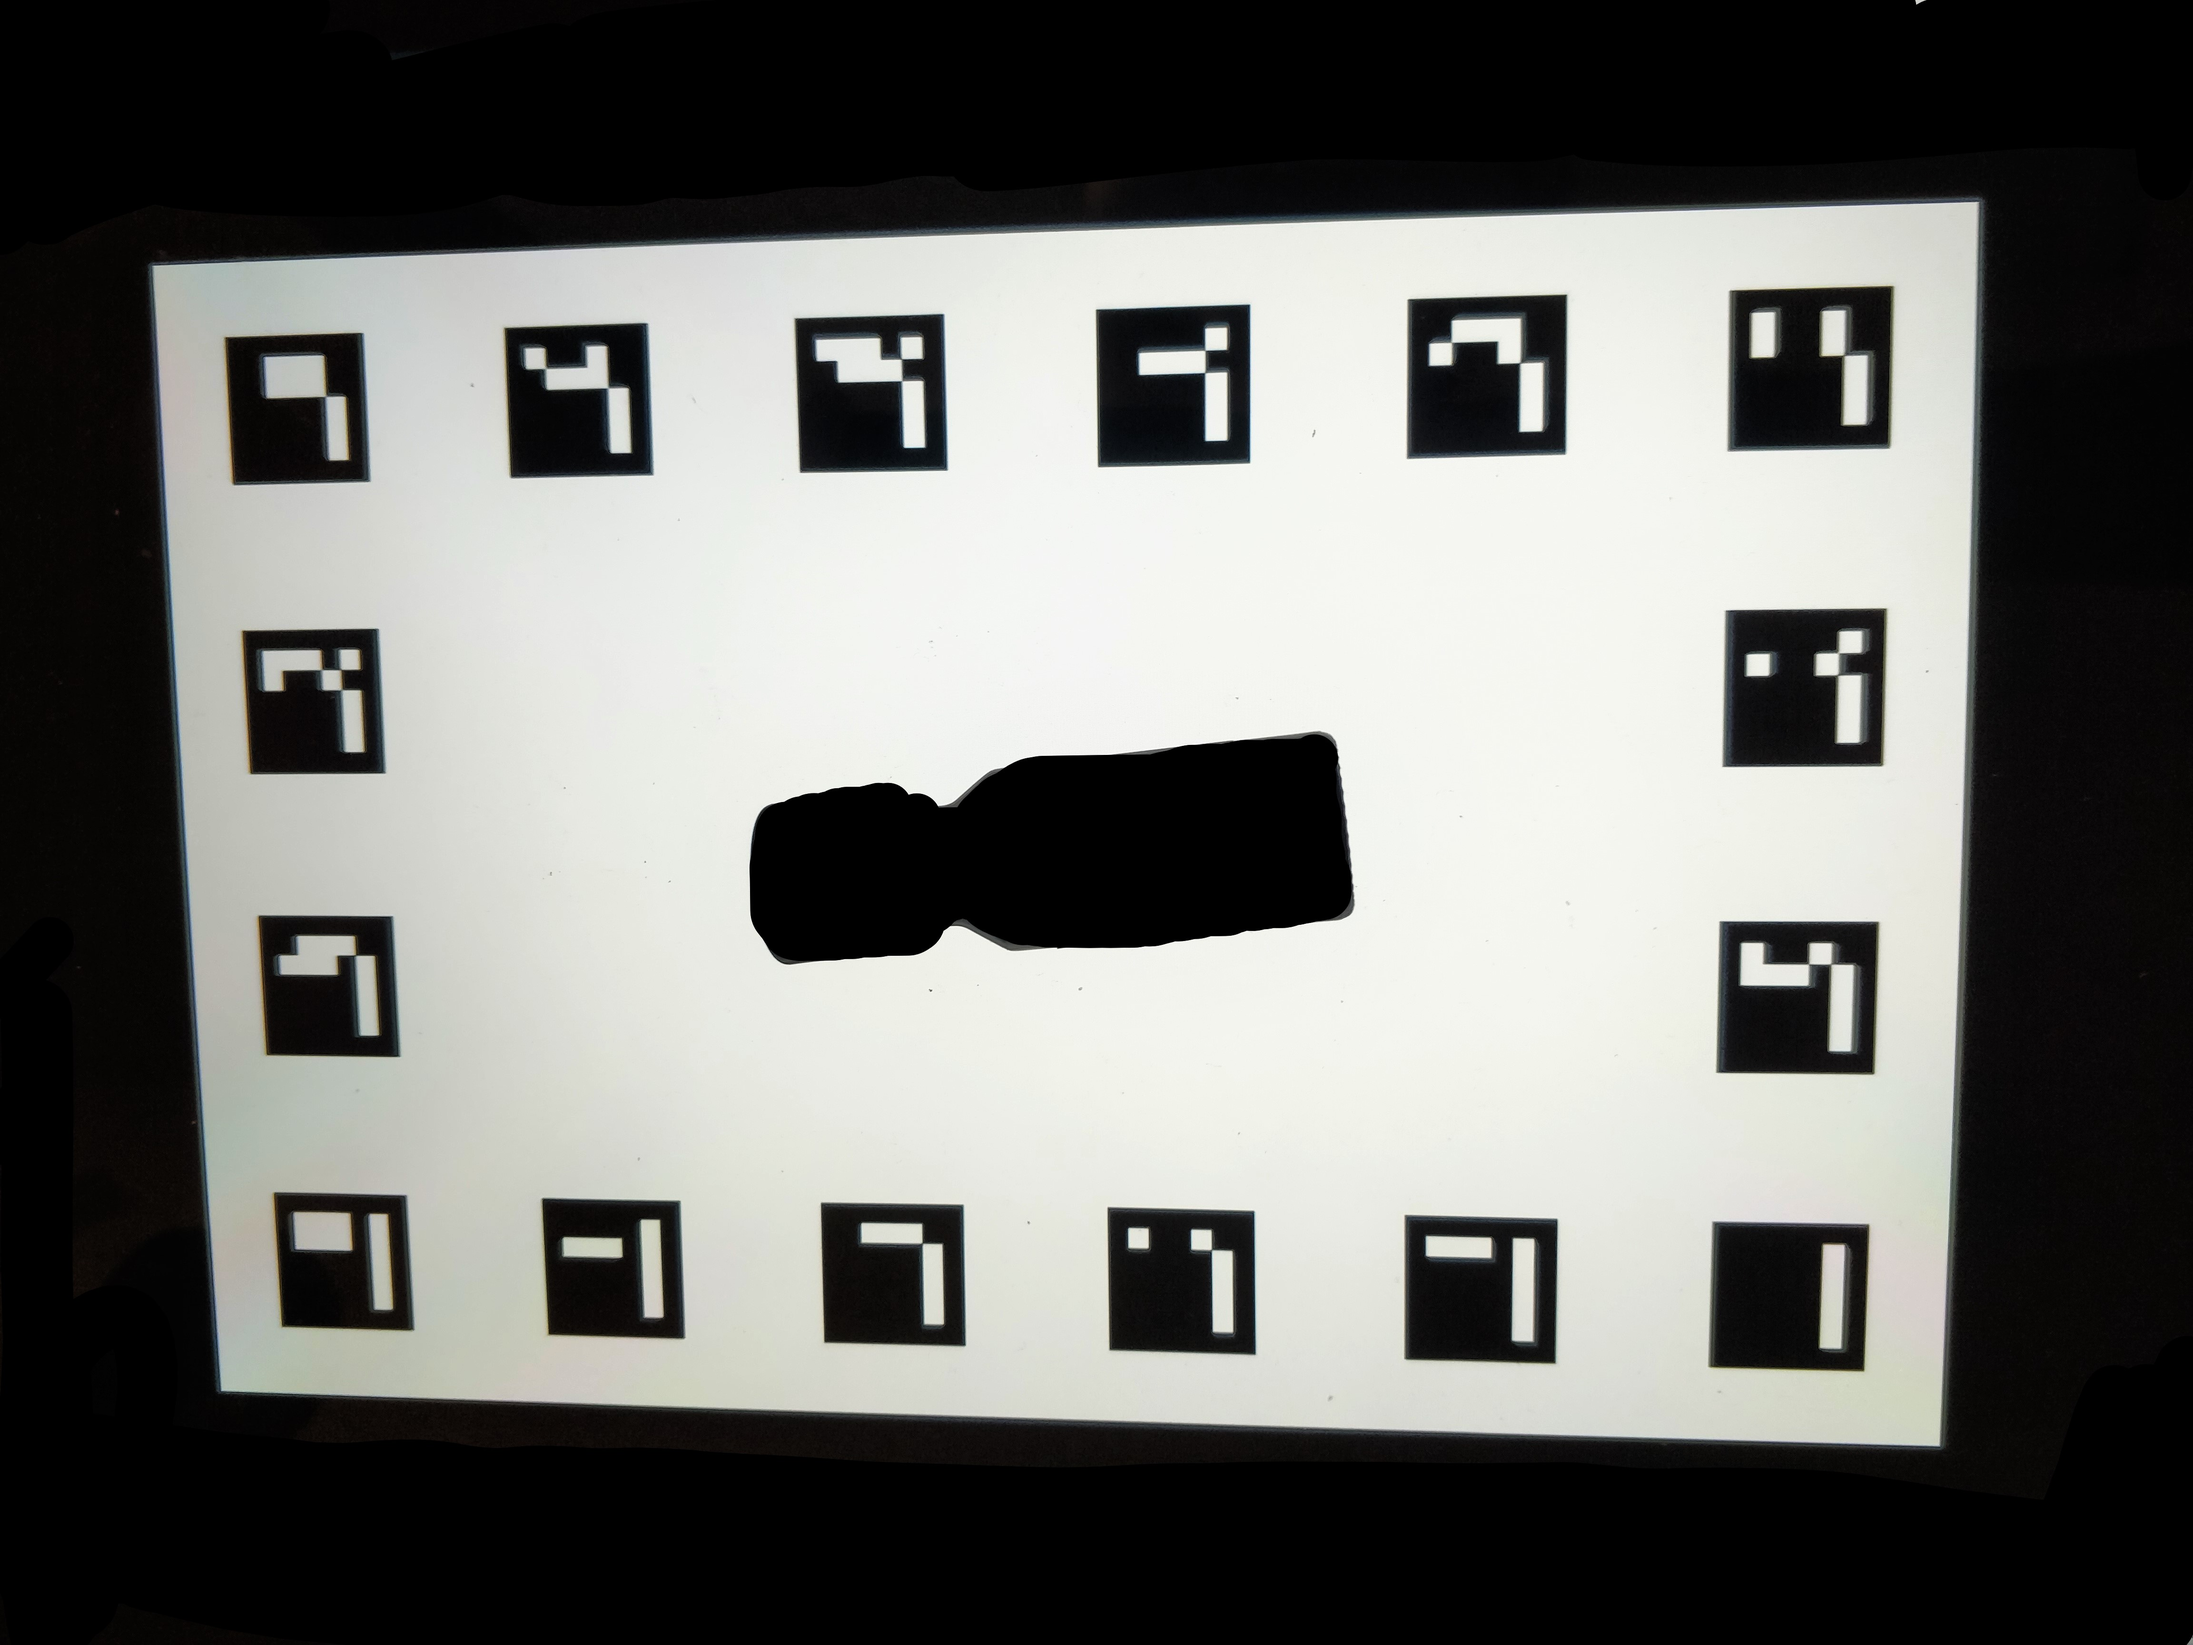
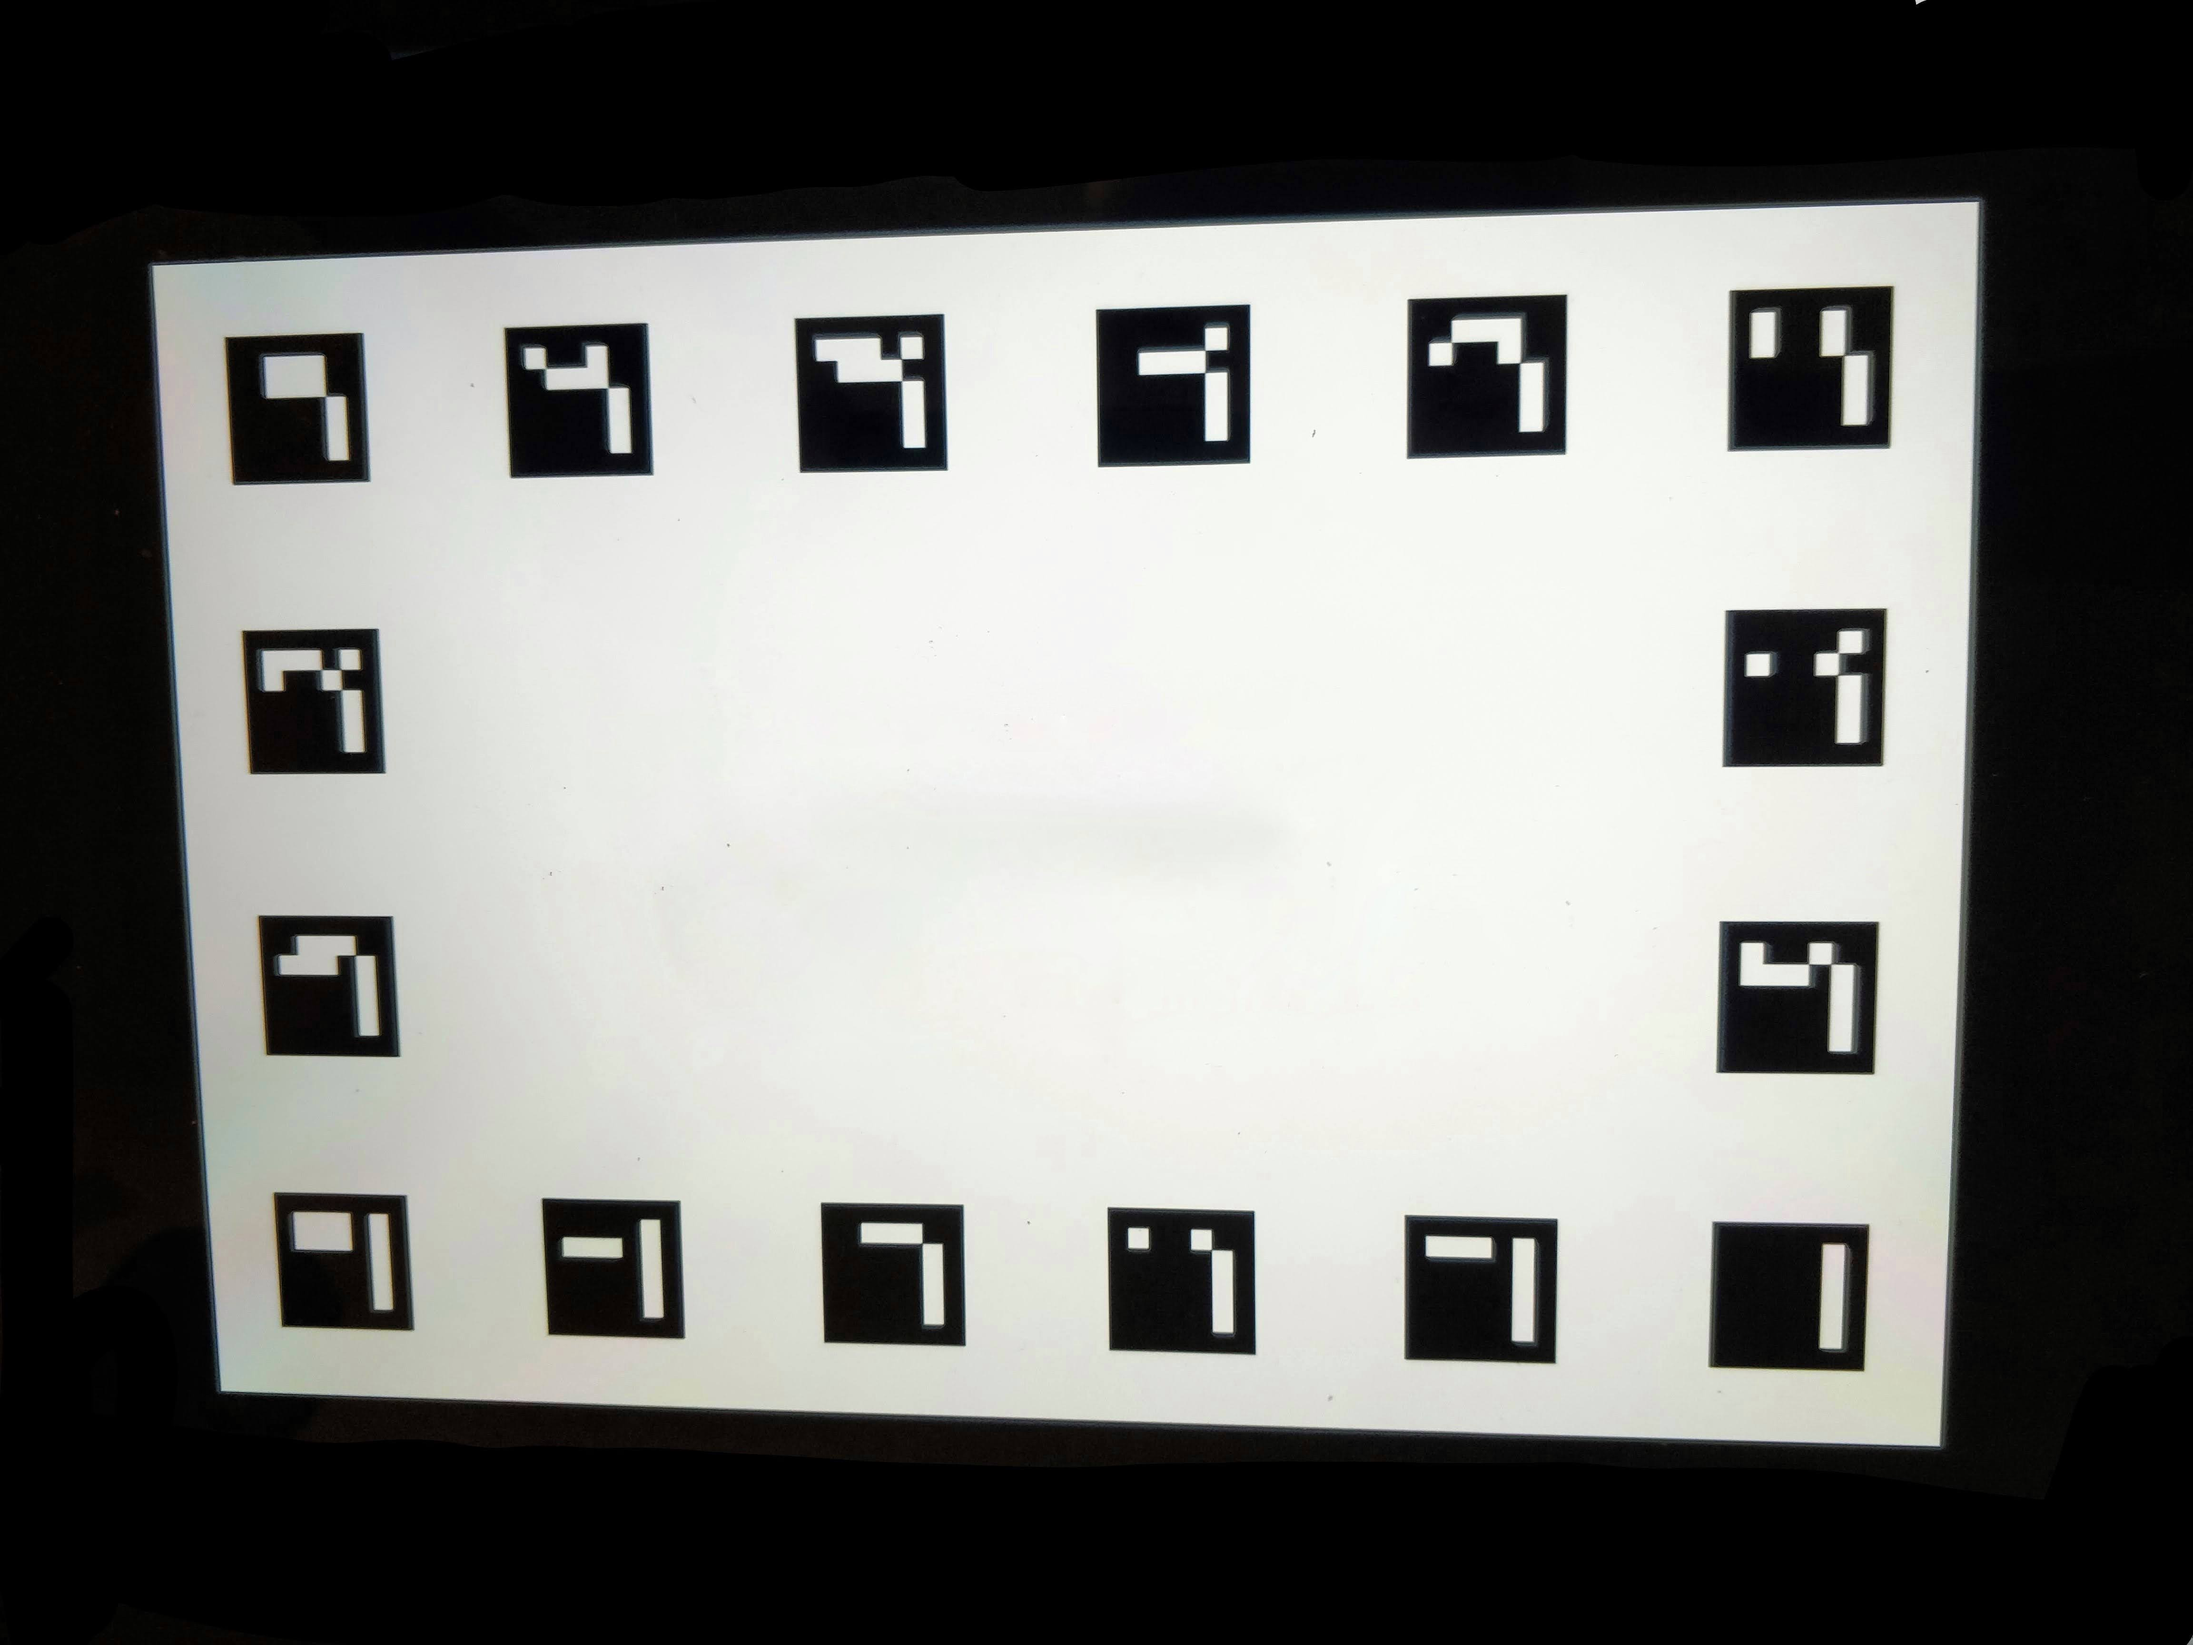
Extend database for background segmentation, adjust and fix error in code

Changed region(s): [[0.3438, 0.4375, 0.625, 0.5938]]

diff --git a/marker_recognition_img.cpp b/marker_recognition_img.cpp
@@ -82,7 +82,7 @@ cv::Mat resizeImg(cv::Mat preimg) {
     cv::Mat img;
     double newwidth = ((double)IMG_HEIGHT / preimg.size().height) * preimg.size().width;
     IMG_WIDTH = newwidth;
-    cv::Size s = cv::Size((int) newwidth, 540);
+    cv::Size s = cv::Size((int) newwidth, IMG_HEIGHT);
     cv::resize(preimg, img, s);
     return img;
 }
@@ -139,12 +139,19 @@ void carve(float fArray[], startParams params, camera cam) {
 
 	cv::Mat silhouette, distImage;
 	//edge detector, output in silhouette
-	cv::Canny(cam.Silhouette, silhouette, 0, 255);
+	//cv::Canny(cam.Silhouette, silhouette, 0, 255);
+	cv::threshold(cam.Silhouette, silhouette, 100, 255, THRESH_BINARY);
+	//silhouette = cam.Silhouette;
 	//inverts every bit
-	cv::bitwise_not(silhouette, silhouette);
+	//cv::bitwise_not(silhouette, silhouette);
 	//Calculates the distance to the closest zero pixel for each pixel of the source image.
 	//using CV_DIST_L2 as 3rd argument
-	cv::distanceTransform(silhouette, distImage, 2, 3);
+	cv::distanceTransform(silhouette, distImage, CV_DIST_L2, 3);
+	// show images for debugging
+	//cv::imshow("sil cam", cam.Silhouette);
+	//cv::imshow("sil", silhouette);
+	//cv::normalize(distImage, distImage, 0, 1.0, NORM_MINMAX);
+	//cv::imshow("dist", distImage);
 
 	for (int i = 0; i < VOXEL_DIM; i++) {
 		for (int j = 0; j < VOXEL_DIM; j++) {
@@ -354,11 +361,18 @@ int main(int argc, char* argv[]) {
 	//std::cout<< "Distortion Coeffs\n" << camParams.second << "\n";
 
 		for (int i = 0; i < 7; i++) {
-			std::stringstream path;
-			path << "../../../images/" << "image_" << (i+1) << ".jpg";
+			std::stringstream path, path_bg;
+			path << "../../../images/" << "image_" << (i + 1) << ".jpg";
+			path_bg << "../../../images/" << "image_" << (i + 1) << ".jpg";
+			//path << "C:/Users/mayay/source/repos/ARVoxelCarving/images/" << "image_" << (i+8) << ".jpg";
+			//path_bg << "C:/Users/mayay/source/repos/ARVoxelCarving/images/" << "image_" << (i+1) << ".jpg";
 			std::string image_path = cv::samples::findFile(path.str());
+			std::string image_bg_path = cv::samples::findFile(path_bg.str());
+
 			cv::Mat img = cv::imread(image_path, cv::IMREAD_COLOR);
-			if (img.empty())
+			cv::Mat bg = cv::imread(image_bg_path, cv::IMREAD_COLOR);
+
+			if (img.empty() || bg.empty())
 			{
 				std::cout << "Could not read the image: " << path.str() << std::endl;
 				return 1;
@@ -369,10 +383,12 @@ int main(int argc, char* argv[]) {
 			
 			cv::Mat silhouette;
 			//using CV_BGR2HSV for 40
-			cv::cvtColor(img, silhouette, 40);
+			//cv::cvtColor(img, silhouette, 40);
 			//Checks if silhouette array elements lie between the (0,0,30) and 255,255,255
-			cv::inRange(silhouette, cv::Scalar(0, 0, 30), cv::Scalar(255, 255, 255), silhouette);
-
+			//cv::inRange(silhouette, cv::Scalar(0, 0, 30), cv::Scalar(255, 255, 255), silhouette);
+			cv::Ptr<cv::BackgroundSubtractor> pBackSub = cv::createBackgroundSubtractorMOG2();
+			pBackSub->apply(bg, silhouette);
+			pBackSub->apply(img, silhouette);
 			
 			// Detect markers in frame
 			std::vector<int> ids;
@@ -384,6 +400,7 @@ int main(int argc, char* argv[]) {
 				
 				::aruco::CameraParameters cam;
 				cam.readFromXMLFile("../../../extern/out_camera_data.xml");
+				//cam.readFromXMLFile("C:/Users/mayay/source/repos/ARVoxelCarving/extern/out_camera_data.xml");
 				cv::Mat cameraMatrix = cam.CameraMatrix;
 				cv::Mat distCoeffs = cam.Distorsion;
 
@@ -399,17 +416,21 @@ int main(int argc, char* argv[]) {
 
                 auto cameraPos = findCameraPos(objectCoordMap, corners, ids, cameraMatrix, distCoeffs);
 
-                //std::cout << "Camera Rotation:\n" << cameraPos.first * 180 / M_PI << "\n";
-                //std::cout << "Camera Translation:\n" << cameraPos.second << "\n";
+				std::cout << "Camera Matrix:\n" << cameraMatrix << "\n";
+                std::cout << "Camera Rotation:\n" << cameraPos.first << "\n";
+                std::cout << "Camera Translation:\n" << cameraPos.second << "\n";
+
 				camera c;
-				c.Image = img;
+				c.Image = resizeImg(img);
+				c.K = cameraMatrix;
 				c.R = cameraPos.first;
 				c.t = cameraPos.second;
 				hconcat(c.R, c.t, c.P);
-                c.P.convertTo(c.P, 5);
-				cv::Mat lowerRank = cv::Mat(1, 4, CV_32F, {0.0,0.0,0.0,1.0});
-				vconcat(c.P, lowerRank, c.P);
-				c.Silhouette = silhouette;
+				c.K.convertTo(c.K, CV_32FC1);
+				c.P.convertTo(c.P, CV_32FC1);
+				c.P = c.K * c.P;
+
+				c.Silhouette = resizeImg(silhouette);
 				cameras.push_back(c);
 
 				
@@ -426,8 +447,8 @@ int main(int argc, char* argv[]) {
         //float xmin = -6.21639, ymin = -10.2796, zmin = -14.0349;
         //float xmax = 7.62138, ymax = 12.1731, zmax = 12.5358;
 
-        float xmin = 0, ymin = 0, zmin = 0;
-        float xmax = 1200, ymax = 700, zmax = 700;
+        float xmin = -200, ymin = -150, zmin = -100;
+        float xmax = 200, ymax = 150, zmax = 100;
 
         float bbwidth = std::abs(xmax - xmin) * 1.15;
         float bbheight = std::abs(ymax - ymin) * 1.15;
@@ -441,13 +462,14 @@ int main(int argc, char* argv[]) {
         //params.startY = ymin - bbheight;
         params.startY = ymin;
         params.startZ = 0.0f;
+		//params.startZ = zmin-bbdepth;
         params.voxelWidth = bbwidth / VOXEL_DIM;
         params.voxelHeight = bbheight / VOXEL_DIM;
         params.voxelDepth = bbdepth / VOXEL_DIM;
 		/* 3 dimensional voxel grid */
 		float* fArray = new float[VOXEL_SIZE];
 		std::fill_n(fArray, VOXEL_SIZE, 1000.0f);
-
+		//unsigned char* fArray = new unsigned char[VOXEL_SIZE];
 		/* carving model for every given camera image */
 		for (int i = 0; i < 7; i++) {
 			std::cout << cameras.at(i).P;
@@ -460,8 +482,8 @@ int main(int argc, char* argv[]) {
         }
 		/* show example of segmented image */
 		cv::Mat original, segmented;
-		original = resizeImg(cameras.at(1).Image);
-		segmented = resizeImg(cameras.at(1).Silhouette);
+		original = resizeImg(cameras.at(4).Image);
+		segmented = resizeImg(cameras.at(4).Silhouette);
 		cv::imshow("Squirrel", original);
 		cv::imshow("Squirrel Silhouette", segmented);
         renderModel(fArray, params);

diff --git a/PointsObjectCoord.h b/PointsObjectCoord.h
@@ -16,22 +16,22 @@
 
 // I have arbitrarily defined the distances between voxels to be 100, because in the original image they are 100 pixels apart. We may need to find new offsets.
 // It seems that moving the camera 1 cm in the X-Y direction produces a different distance change than moving it in the Z direction.
-static std::unordered_map<int, std::vector<cv::Point3d>> objectCoordMap {{0, {cv::Point3d(0, 0, 0), cv::Point3d(100, 0, 0), cv::Point3d(100, 100, 0), cv::Point3d(0, 100, 0)}},
-															{1, {cv::Point3d(200, 0, 0), cv::Point3d(300, 0, 0), cv::Point3d(300, 100, 0), cv::Point3d(200, 100, 0)}},
-															{2, {cv::Point3d(400, 0, 0), cv::Point3d(500, 0, 0), cv::Point3d(500, 100, 0), cv::Point3d(400, 100, 0)}},
-															{3, {cv::Point3d(600, 0, 0), cv::Point3d(700, 0, 0), cv::Point3d(700, 100, 0), cv::Point3d(600, 100, 0)}},
-															{4, {cv::Point3d(800, 0, 0), cv::Point3d(900, 0, 0), cv::Point3d(900, 100, 0), cv::Point3d(800, 100, 0)}},
-															{5, {cv::Point3d(1000, 0, 0), cv::Point3d(1100, 0, 0), cv::Point3d(1100, 100, 0), cv::Point3d(1000, 100, 0)}},
-															{6, {cv::Point3d(0, 200, 0), cv::Point3d(100, 200, 0), cv::Point3d(100, 300, 0), cv::Point3d(0, 300, 0)}},
-															{7, {cv::Point3d(1000, 200, 0), cv::Point3d(1100, 200, 0), cv::Point3d(1100, 300, 0), cv::Point3d(1000, 300, 0)}},
-															{8, {cv::Point3d(0, 400, 0), cv::Point3d(100, 400, 0), cv::Point3d(100, 500, 0), cv::Point3d(0, 500, 0)}},
-															{9, {cv::Point3d(1000, 400, 0), cv::Point3d(1100, 400, 0), cv::Point3d(1100, 500, 0), cv::Point3d(1000, 500, 0)}},
-															{10, {cv::Point3d(0, 600, 0), cv::Point3d(100, 600, 0), cv::Point3d(100, 700, 0), cv::Point3d(0, 600, 0)}},
-															{11, {cv::Point3d(200, 600, 0), cv::Point3d(300, 600, 0), cv::Point3d(300, 700, 0), cv::Point3d(200, 700, 0)}},
-															{12, {cv::Point3d(400, 600, 0), cv::Point3d(500, 600, 0), cv::Point3d(500, 700, 0), cv::Point3d(400, 700, 0)}},
-															{13, {cv::Point3d(600, 600, 0), cv::Point3d(700, 600, 0), cv::Point3d(700, 700, 0), cv::Point3d(600, 700, 0)}},
-															{14, {cv::Point3d(800, 600, 0), cv::Point3d(900, 600, 0), cv::Point3d(900, 700, 0), cv::Point3d(800, 700, 0)}},
-															{15, {cv::Point3d(1000, 600, 0), cv::Point3d(1100, 600, 0), cv::Point3d(1100, 700, 0), cv::Point3d(1000, 700, 0)}}
+static std::unordered_map<int, std::vector<cv::Point3d>> objectCoordMap {{0, {cv::Point3d(0, 0, 0), cv::Point3d(10, 0, 0), cv::Point3d(10, 10, 0), cv::Point3d(0, 10, 0)}},
+															{1, {cv::Point3d(20, 0, 0), cv::Point3d(30, 0, 0), cv::Point3d(30, 10, 0), cv::Point3d(20, 10, 0)}},
+															{2, {cv::Point3d(40, 0, 0), cv::Point3d(50, 0, 0), cv::Point3d(50, 10, 0), cv::Point3d(40, 10, 0)}},
+															{3, {cv::Point3d(60, 0, 0), cv::Point3d(70, 0, 0), cv::Point3d(70, 10, 0), cv::Point3d(60, 10, 0)}},
+															{4, {cv::Point3d(80, 0, 0), cv::Point3d(90, 0, 0), cv::Point3d(90, 10, 0), cv::Point3d(80, 10, 0)}},
+															{5, {cv::Point3d(100, 0, 0), cv::Point3d(110, 0, 0), cv::Point3d(110, 10, 0), cv::Point3d(100, 10, 0)}},
+															{6, {cv::Point3d(0, 20, 0), cv::Point3d(10, 20, 0), cv::Point3d(10, 30, 0), cv::Point3d(0, 30, 0)}},
+															{7, {cv::Point3d(100, 20, 0), cv::Point3d(110, 20, 0), cv::Point3d(110, 30, 0), cv::Point3d(100, 30, 0)}},
+															{8, {cv::Point3d(0, 40, 0), cv::Point3d(10, 40, 0), cv::Point3d(10, 50, 0), cv::Point3d(0, 50, 0)}},
+															{9, {cv::Point3d(100, 40, 0), cv::Point3d(110, 40, 0), cv::Point3d(110, 50, 0), cv::Point3d(100, 50, 0)}},
+															{10, {cv::Point3d(0, 60, 0), cv::Point3d(10, 60, 0), cv::Point3d(10, 70, 0), cv::Point3d(0, 60, 0)}},
+															{11, {cv::Point3d(20, 60, 0), cv::Point3d(30, 60, 0), cv::Point3d(30, 70, 0), cv::Point3d(20, 70, 0)}},
+															{12, {cv::Point3d(40, 60, 0), cv::Point3d(50, 60, 0), cv::Point3d(50, 70, 0), cv::Point3d(40, 70, 0)}},
+															{13, {cv::Point3d(60, 60, 0), cv::Point3d(70, 60, 0), cv::Point3d(70, 70, 0), cv::Point3d(60, 70, 0)}},
+															{14, {cv::Point3d(80, 60, 0), cv::Point3d(90, 60, 0), cv::Point3d(90, 70, 0), cv::Point3d(80, 70, 0)}},
+															{15, {cv::Point3d(100, 60, 0), cv::Point3d(110, 60, 0), cv::Point3d(110, 70, 0), cv::Point3d(100, 70, 0)}}
 };
 
 #endif //HELLOAR_POINTSOBJECTCOORD_H

diff --git a/utils.cpp b/utils.cpp
@@ -34,7 +34,7 @@ findCameraPos(const std::unordered_map<int, std::vector<cv::Point3d>>& objectCoo
 	cv::solvePnP(objectPoints, imagePoints, cameraMatrix, distCoeffs, cameraRVec, cameraTVec);
 
 	// Must convert from camera translation to world translation: https://stackoverflow.com/questions/18637494/camera-position-in-world-coordinate-from-cvsolvepnp
-//	std::cout  << "Translation:\n" << cameraTVec << "\n";
+	//std::cout  << "Translation:\n" << cameraTVec << "\n";
 //	std::cout  << "Translation:\n" << cameraTVec.size << "\n";
 
 	cv::Mat pose = cv::Mat::eye(4, 4, cameraRVec.type());
@@ -45,30 +45,30 @@ findCameraPos(const std::unordered_map<int, std::vector<cv::Point3d>>& objectCoo
 
 //	std::cout << "Rotation:\n" << rotation << "\n";
 
-	for (int x = 0; x < 3; x++)
-	{
-		for (int y = 0; y < 3; y++)
-		{
-			pose.at<double>(x, y) = rotation.at<double>(x, y);
-		}
-	}
-//	std::cout  << "Assigning rotation:\n" << pose << "\n";
-
-	for (int x = 0; x < 3; x++)
-	{
-		pose.at<double>(x, 3) = cameraTVec.at<double>(x, 0);
-	}
-//	std::cout  << "Assigning Translation:\n" << pose << "\n";
-
-	pose = pose.inv();
-//	std::cout  << "Inversion:\n" << pose << "\n";
-
-	for (int x = 0; x < 3; x++)
-	{
-		cameraTVec.at<double>(x, 0) = pose.at<double>(x, 3);
-	}
-
-	rotation = pose(cv::Range(0, 3), cv::Range(0, 3));
+//	for (int x = 0; x < 3; x++)
+//	{
+//		for (int y = 0; y < 3; y++)
+//		{
+//			pose.at<double>(x, y) = rotation.at<double>(x, y);
+//		}
+//	}
+////	std::cout  << "Assigning rotation:\n" << pose << "\n";
+//
+//	for (int x = 0; x < 3; x++)
+//	{
+//		pose.at<double>(x, 3) = cameraTVec.at<double>(x, 0);
+//	}
+////	std::cout  << "Assigning Translation:\n" << pose << "\n";
+//
+//	pose = pose.inv();
+////	std::cout  << "Inversion:\n" << pose << "\n";
+//
+//	for (int x = 0; x < 3; x++)
+//	{
+//		cameraTVec.at<double>(x, 0) = pose.at<double>(x, 3);
+//	}
+//
+//	rotation = pose(cv::Range(0, 3), cv::Range(0, 3));
 //	std::cout  << "Extracted Rotation:\n" << rotation << "\n";
 
 
